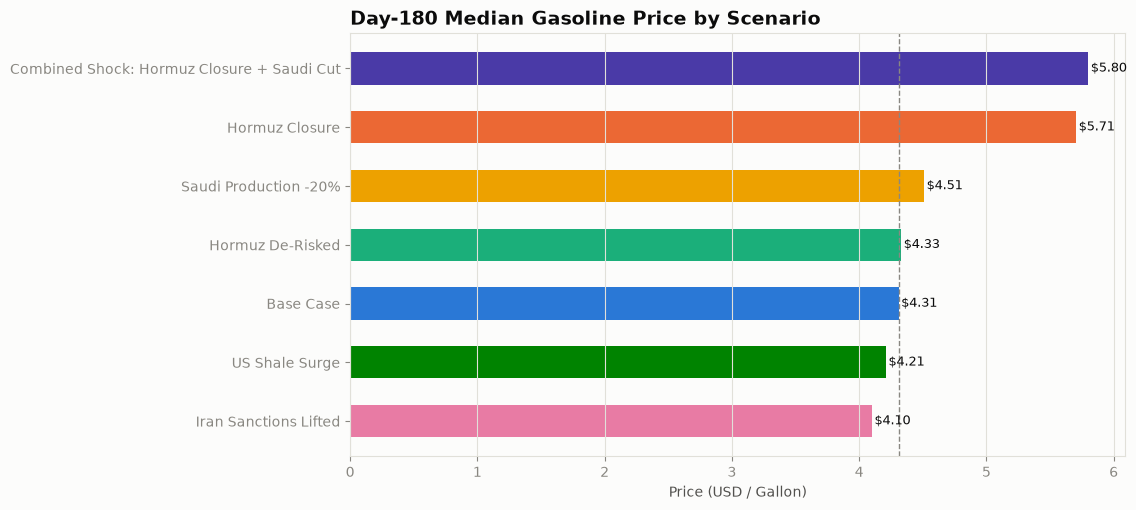
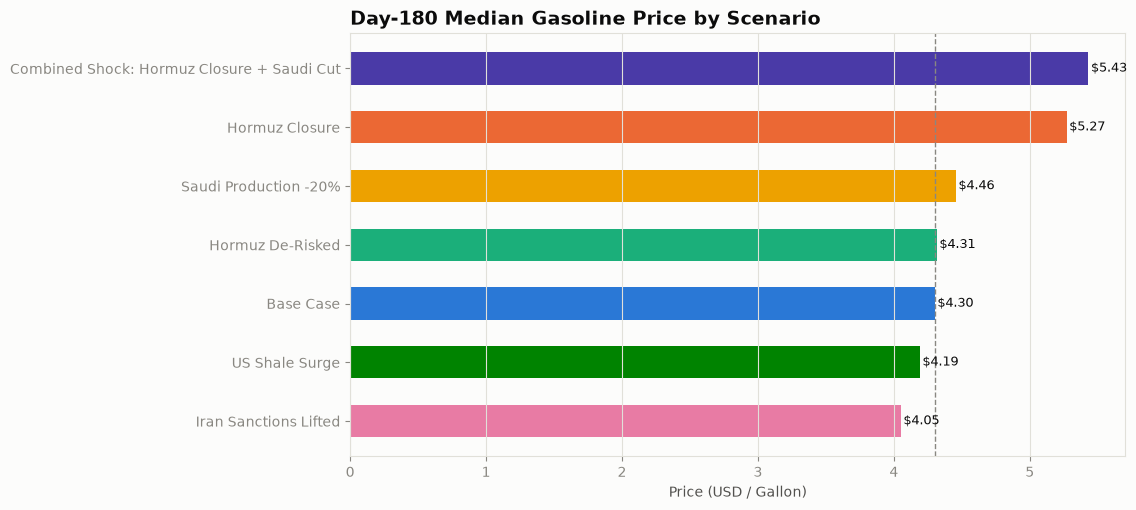
Daily scenario report refresh

diff --git a/oil_market_outlook.md b/oil_market_outlook.md
@@ -5,31 +5,31 @@
 
 ## Executive Summary
 
-Under current calibrated conditions, the model's base-case median retail gasoline price reaches **$4.31/gal** 180 days out (10th-90th percentile range $3.44-$5.43). Across the six stress scenarios modeled below, the most bullish case is **Combined Shock: Hormuz Closure + Saudi Cut**, which pushes the day-180 median to $5.80/gal (+34.6% vs. base), while **Iran Sanctions Lifted** offers the most relief, at $4.10/gal (-4.9% vs. base).
+Under current calibrated conditions, the model's base-case median retail gasoline price reaches **$4.30/gal** 180 days out (10th-90th percentile range $3.47-$5.36). Across the six stress scenarios modeled below, the most bullish case is **Combined Shock: Hormuz Closure + Saudi Cut**, which pushes the day-180 median to $5.43/gal (+26.3% vs. base), while **Iran Sanctions Lifted** offers the most relief, at $4.05/gal (-5.8% vs. base).
 
 ## Scenario Summary Table (Gasoline)
 
 | Scenario | Day 30 | Day 90 | Day 180 | Day 180 10th-90th pct. | vs. Base |
 |---|---|---|---|---|---|
-| Base Case | $4.47 | $4.39 | $4.31 | $3.44-$5.43 | - |
-| Hormuz Closure | $5.89 | $5.78 | $5.71 | $4.17-$8.18 | +32.4% |
-| Hormuz De-Risked | $4.47 | $4.42 | $4.33 | $3.53-$5.33 | +0.5% |
-| Saudi Production -20% | $4.69 | $4.62 | $4.51 | $3.59-$5.78 | +4.6% |
-| Iran Sanctions Lifted | $4.18 | $4.14 | $4.10 | $3.22-$5.11 | -4.9% |
-| US Shale Surge | $4.34 | $4.32 | $4.21 | $3.37-$5.25 | -2.3% |
-| Combined Shock: Hormuz Closure + Saudi Cut | $6.18 | $6.04 | $5.80 | $4.24-$8.46 | +34.6% |
+| Base Case | $4.47 | $4.42 | $4.30 | $3.47-$5.36 | - |
+| Hormuz Closure | $5.85 | $5.65 | $5.27 | $3.92-$7.27 | +22.6% |
+| Hormuz De-Risked | $4.46 | $4.40 | $4.31 | $3.54-$5.20 | +0.3% |
+| Saudi Production -20% | $4.68 | $4.59 | $4.46 | $3.53-$5.61 | +3.6% |
+| Iran Sanctions Lifted | $4.18 | $4.14 | $4.05 | $3.25-$5.13 | -5.8% |
+| US Shale Surge | $4.33 | $4.30 | $4.19 | $3.40-$5.23 | -2.6% |
+| Combined Shock: Hormuz Closure + Saudi Cut | $6.10 | $5.91 | $5.43 | $4.07-$7.77 | +26.3% |
 
 ## Scenario Summary Table (Diesel, Day 180 median)
 
 | Scenario | Day 180 Diesel |
 |---|---|
-| Base Case | $6.03 |
-| Hormuz Closure | $7.38 |
-| Hormuz De-Risked | $6.07 |
-| Saudi Production -20% | $6.23 |
-| Iran Sanctions Lifted | $5.79 |
-| US Shale Surge | $5.94 |
-| Combined Shock: Hormuz Closure + Saudi Cut | $7.53 |
+| Base Case | $6.00 |
+| Hormuz Closure | $6.98 |
+| Hormuz De-Risked | $6.01 |
+| Saudi Production -20% | $6.17 |
+| Iran Sanctions Lifted | $5.76 |
+| US Shale Surge | $5.92 |
+| Combined Shock: Hormuz Closure + Saudi Cut | $7.17 |
 
 ## Scenario Detail
 
@@ -37,43 +37,43 @@ Under current calibrated conditions, the model's base-case median retail gasolin
 
 Current calibrated market conditions; no policy or geopolitical shock applied.
 
-Day-180 median: **$4.31/gal** gasoline (base case), $6.03/gal diesel.
+Day-180 median: **$4.30/gal** gasoline (base case), $6.00/gal diesel.
 
 ### Hormuz Closure
 
 Strait of Hormuz effectively shut: roughly 55% of its normal throughput is assumed offline, chokepoint disruption frequency quadruples, and the war-risk shipping premium triples.
 
-Day-180 median: **$5.71/gal** gasoline (+32.4% vs. base), $7.38/gal diesel.
+Day-180 median: **$5.27/gal** gasoline (+22.6% vs. base), $6.98/gal diesel.
 
 ### Hormuz De-Risked
 
 Geopolitical tension around the strait fully unwinds: disruption frequency falls to a fifth of baseline and the war-risk premium halves, with no direct change to physical supply.
 
-Day-180 median: **$4.33/gal** gasoline (+0.5% vs. base), $6.07/gal diesel.
+Day-180 median: **$4.31/gal** gasoline (+0.3% vs. base), $6.01/gal diesel.
 
 ### Saudi Production -20%
 
 Saudi Arabia cuts output and spare capacity by 20%, e.g. an OPEC+ supply-discipline shock.
 
-Day-180 median: **$4.51/gal** gasoline (+4.6% vs. base), $6.23/gal diesel.
+Day-180 median: **$4.46/gal** gasoline (+3.6% vs. base), $6.17/gal diesel.
 
 ### Iran Sanctions Lifted
 
 Sanctions are lifted, letting Iranian output ramp toward a materially higher production ceiling.
 
-Day-180 median: **$4.10/gal** gasoline (-4.9% vs. base), $5.79/gal diesel.
+Day-180 median: **$4.05/gal** gasoline (-5.8% vs. base), $5.76/gal diesel.
 
 ### US Shale Surge
 
 US shale operators ramp drilling activity, lifting both current output and spare capacity.
 
-Day-180 median: **$4.21/gal** gasoline (-2.3% vs. base), $5.94/gal diesel.
+Day-180 median: **$4.19/gal** gasoline (-2.6% vs. base), $5.92/gal diesel.
 
 ### Combined Shock: Hormuz Closure + Saudi Cut
 
 A simultaneous Hormuz closure and 20% Saudi production cut - a tail-risk stack of the two largest supply-side scenarios.
 
-Day-180 median: **$5.80/gal** gasoline (+34.6% vs. base), $7.53/gal diesel.
+Day-180 median: **$5.43/gal** gasoline (+26.3% vs. base), $7.17/gal diesel.
 
 ## Charts
 
